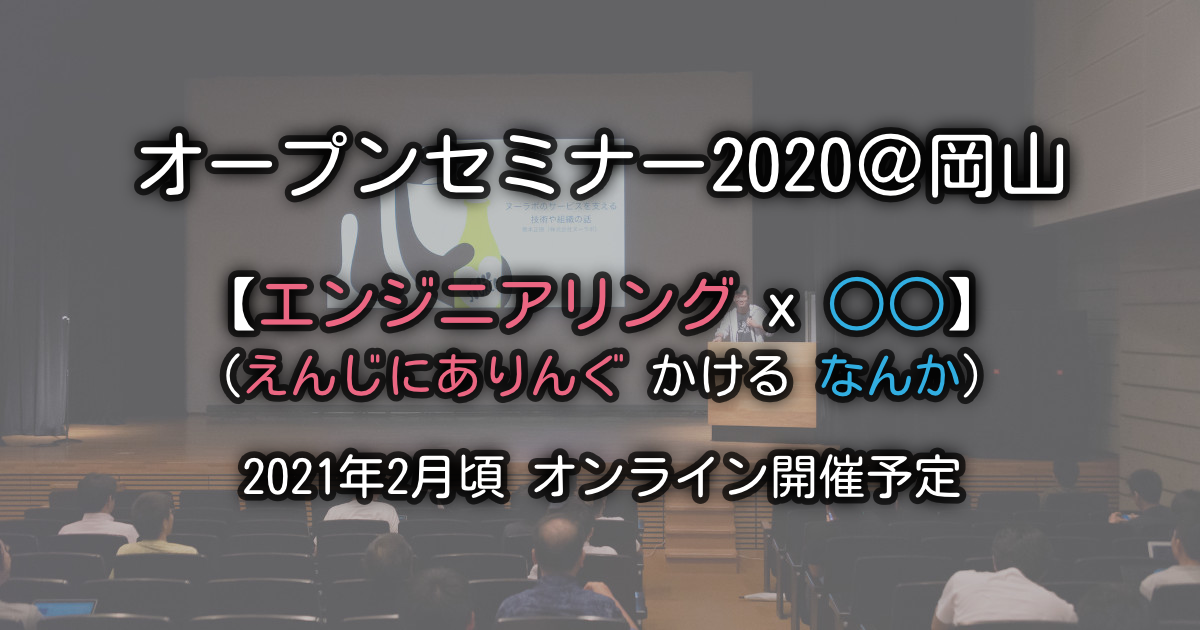
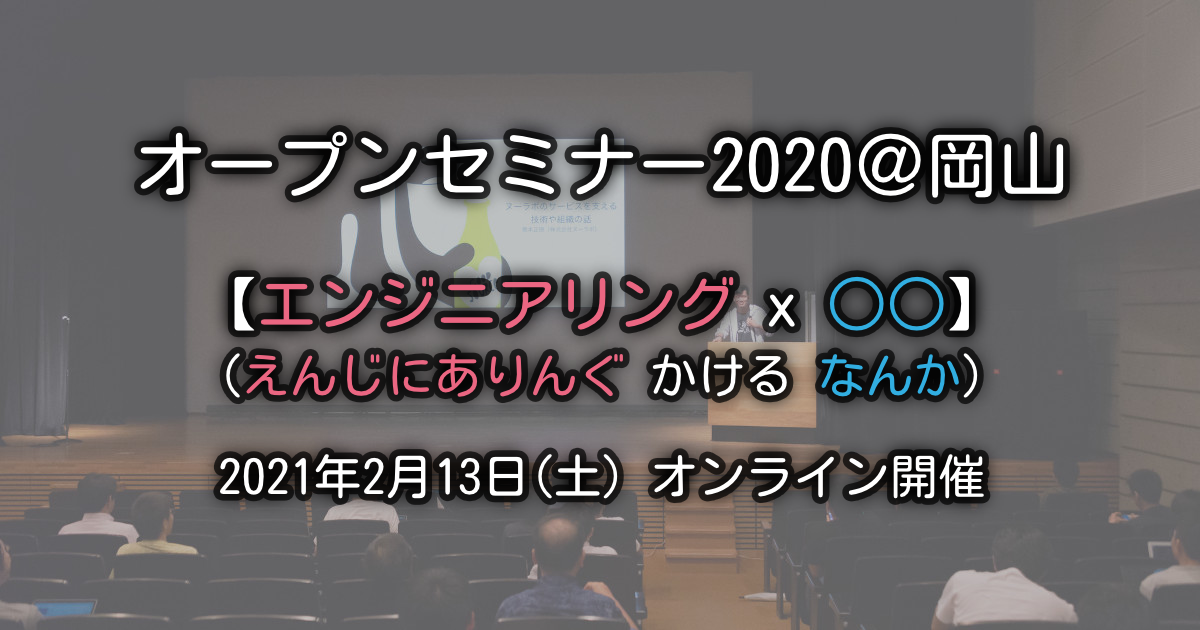
開催日の確定
あと懇親会を開催しない旨記載

Changed region(s): [[0.1542, 0.6937, 0.8325, 0.8143]]

diff --git a/pages/index.vue b/pages/index.vue
@@ -3,32 +3,9 @@
     <app-header/>
     <!-- jumbotron -->
     <div class="siimple-jumbotron siimple-jumbotron--navy siimple-jumbotron--large jumbotron">
-      <div class="delay-message">
-        <div class="siimple-alert">
-          <h2>オープンセミナー岡山2020 開催時期延期のお知らせ</h2>
-          <h3>2020年9月 追記</h3>
-          下記の通り、「2020年10月の（物理的なイベントとしての）開催」を目指しておりましたが、「新型コロナウイルス感染症の流行、およびそれに対しての有効な対策手段の普及状況」を鑑みた際、100人規模の参加者の方を一箇所に集めてのイベントを開催することは現時点においてもまだ尚早である、と判断いたしました。<br>
-          これを受けて、当実行委員会メンバーでも検討を重ねた結果、<span class="bold">【2021年2月頃】</span>に、<span class="bold">【オンライン形式での開催】</span>を目指すという形となりました。<br><br>
-          「2020」と名に冠したイベントの開催がここまでずれ込んだこと、心苦しく受け止めておりますが、「実行委員会に殆どノウハウのない開催形式であること」「ボランティアベースの活動であることもあり、年末年始期間での活動・開催は難しい」といったこともあってのこととなりますので、ご理解いただけますと幸いです。<br>
-          テーマは変わらず、<a href="theme.html">【エンジニアリング x ○○】（エンジニアリング かける "なんか"）</a>です。2021年2月、このテーマについてみなさんと一緒に考える機会を持てることを、委員会一同楽しみにしております。<br>
-          <h3 class="signature">
-            オープンセミナー2020@岡山 実行委員長 井上大輔(a-know)
-          </h3>
-          <details>
-            <summary><span class="bold">2020年4月時点での延期のご挨拶</span></summary><br>
-            一部コミュニティの皆様には、徐々にお知らせもしはじめてはいたのですが、当初、2020年5月の開催を目指して準備を進めておりましたオープンセミナー岡山2020ですが、昨今の社会情勢を鑑みて、<span class="bold">【2020年10月付近】</span>での開催に延期をさせていただく決断をしました。<br>
-            オープンセミナー岡山が何年も続く中で、「初夏の岡山の風物詩」になっていた方もおられるのではないかとは思いましたが、大事なことは、参加者・支援者の皆様の健康と、オープンセミナー岡山というコミュニティ自体の存続である、と考え、このような決断をいたしました。<br>
-            テーマも<a href="theme.html">【エンジニアリング x ○○】（エンジニアリング かける "なんか"）</a>と、既に決めており、またこれに賛同していただいているご登壇者の方も多くおられます。本当にありがとうございます。そんなオープンセミナー岡山2020の開催を一番心待ちにしているのは、他ならない私でもあります。<br>
-            開催時期は夏から秋へと変更となりますが、2020年10月、多くの皆様とお会いできることを心より楽しみにしています。ご理解のほど、どうぞよろしくお願いいたします。<br>
-            <h3 class="signature">
-              オープンセミナー2020@岡山 実行委員長 井上大輔(a-know)
-            </h3>
-          </details>
-        </div>
-      </div>
       <div class="siimple-jumbotron-title"><img src="images/logo.svg"></div>
       <div class="siimple-jumbotron-subtitle">【エンジニアリング x ○○】<br>（えんじにありんぐ かける なんか）</div>
-      <div class="siimple-jumbotron-detail"><i class="far fa-calendar-alt"/> 2021年2月頃開催予定</div>
+      <div class="siimple-jumbotron-detail"><i class="far fa-calendar-alt"/> 2021年2月13日(土)オンライン開催</div>
       <div class="siimple-jumbotron-detail">
         <ul class="top_social_buttons">
           <li>
@@ -76,12 +53,12 @@
       </div>
       <h2 id="after-party">懇親会</h2>
       <p>
-        オンライン形式での実施を予定しています。
+        今回は懇親会を執り行いません。ご了承ください。
       </p>
       <!-- venue -->
       <h2 id="venue">日時・場所</h2>
       <p>
-        2021年2月頃・オンライン形式での開催を予定
+        2021年2月13日(土) 14:00 - 19:00・オンライン形式(Zoom)で開催
       </p>
 
       <!-- anti-harassment policy -->

diff --git a/pages/faq.vue b/pages/faq.vue
@@ -10,7 +10,7 @@
         社会情勢を鑑みて、オンライン形式での開催を予定しています。オープンセミナー岡山では初の試みとなります。
       </p>
       <h2><i class="fas fa-question"/> 懇親会はありますか？</h2>
-      <p class="siimple-p">懇親会はオープンセミナー岡山というコミュニティにとって大事なものであると考えており、本編と同じく、オンライン形式での開催を検討しています。</p>
+      <p class="siimple-p">今回は懇親会を執り行いません。ご了承ください。</p>
       <h2><i class="fas fa-question"/> 「2020」なのに2021年の開催なんですか？</h2>
       <p class="siimple-p">
         開催がずれ込み、申し訳ありません。<br />
